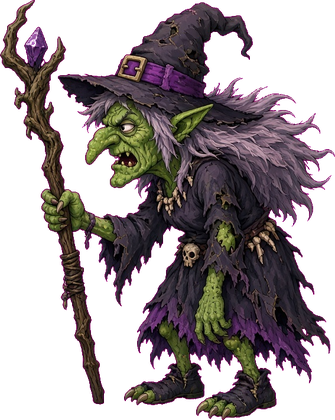
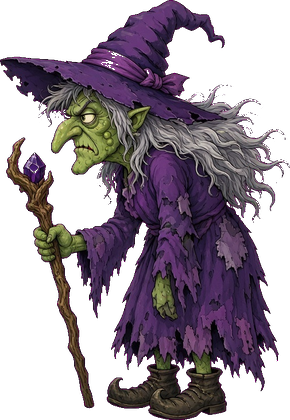
Slow Emma night to five minutes and drop pink sprite boxes

diff --git a/broom.html b/broom.html
@@ -9,9 +9,9 @@
     * { box-sizing: border-box; margin: 0; padding: 0; }
     html, body { height: 100%; background: #140a0c; color: var(--cream); font-family: "Trebuchet MS", "Segoe UI", sans-serif; }
     body { display: flex; flex-direction: column; height: 100dvh; padding-top: env(safe-area-inset-top); padding-bottom: env(safe-area-inset-bottom); }
-    header { display: flex; justify-content: space-between; align-items: center; gap: 8px; padding: 8px 12px; }
+    header { display: flex; justify-content: space-between; align-items: center; gap: 8px; padding: 8px 12px; background: #1a1024; }
     header b { color: var(--gold); letter-spacing: .12em; font-size: 12px; }
-    #hud { font-weight: 800; }
+    #hud { font-weight: 800; color: #ffb4b4; }
     a.back, button.act {
       border: 0; border-radius: 999px; background: #3a241c; color: var(--cream);
       font: 800 13px "Trebuchet MS", sans-serif; padding: 8px 12px; text-decoration: none;
@@ -19,9 +19,16 @@
     #wrap { position: relative; flex: 1; min-height: 0; }
     canvas { width: 100%; height: 100%; display: block; background: #1b1030; touch-action: none; }
     #help {
-      position: absolute; left: 10px; right: 10px; top: 8px;
-      font-size: 13px; text-align: center; pointer-events: none; text-shadow: 0 1px 4px #000;
+      position: absolute; left: 50%; top: 10px; transform: translateX(-50%);
+      max-width: 92%;
+      background: #140a0ccc; border: 1px solid #e8c36a55; border-radius: 999px;
+      padding: 7px 12px; font-size: 13px; text-align: center; pointer-events: none;
     }
+    #barTrack {
+      position: absolute; left: 12px; right: 12px; bottom: 74px; height: 8px;
+      background: #0008; border-radius: 999px; overflow: hidden;
+    }
+    #barFill { height: 100%; width: 0; background: linear-gradient(90deg, #e8c36a, #ff8a2a); }
     #touch {
       position: absolute; left: 10px; right: 10px; bottom: 10px;
       display: grid; grid-template-columns: 1fr 1fr; gap: 8px;
@@ -31,7 +38,7 @@
       font: 800 16px "Trebuchet MS", sans-serif;
     }
     #goSpeed { background: var(--gold); color: #1a1208; }
-    #goBrake { background: #3a241c; color: var(--cream); }
+    #goBrake { background: #3a241c; color: var(--cream); border: 1px solid #e8c36a44; }
     #over {
       position: absolute; inset: 0; background: #140a0ce6;
       display: none; flex-direction: column; justify-content: flex-end; padding: 18px;
@@ -55,6 +62,7 @@
   <div id="wrap">
     <canvas id="c"></canvas>
     <div id="help">Move with mouse or arrows. Left click speeds up. Right click brakes.</div>
+    <div id="barTrack"><div id="barFill"></div></div>
     <div id="touch">
       <button id="goSpeed" type="button">Speed</button>
       <button id="goBrake" type="button">Brake</button>
@@ -74,7 +82,7 @@ const modeEl = document.getElementById("mode");
 const help = document.getElementById("help");
 const speedBtn = document.getElementById("goSpeed");
 const imgs = {};
-["emma","zombie","pumpkin","witch"].forEach((n) => {
+["emma","pumpkin","witch","ghost","skeleton","bat","wolf","zombie"].forEach((n) => {
   const i = new Image();
   i.src = n + ".png";
   imgs[n] = i;
@@ -95,7 +103,14 @@ resize();
 const keys = {};
 let boost = false, brake = false, pointer = false, shootHeld = false;
 let mx = 0.22, my = 0.5;
-let lives = 3, score = 0, level = 1, dist = 0, goal = 1400;
+let lives = 3, score = 0, level = 1, dist = 0, goal = 24000, elapsed = 0;
+const KINDS = [
+  { img: "ghost", speed: 0.1, w: 70, r: 26 },
+  { img: "skeleton", speed: 0.14, w: 64, r: 24 },
+  { img: "bat", speed: 0.2, w: 72, r: 22 },
+  { img: "wolf", speed: 0.16, w: 86, r: 30 },
+  { img: "zombie", speed: 0.12, w: 78, r: 28 }
+];
 let mode = "fly";
 let emma = { x: 0.2, y: 0.5, vx: 0, vy: 0, inv: 0 };
 let speed = 180;
@@ -111,7 +126,8 @@ function reset(nextLevel) {
   lives = nextLevel ? lives : 3;
   if (!nextLevel) score = 0;
   dist = 0;
-  goal = 1100 + level * 350;
+  goal = level === 1 ? 24000 : 18000;
+  elapsed = 0;
   mode = "fly";
   emma = { x: 0.22, y: 0.5, vx: 0, vy: 0, inv: 1 };
   speed = 180;
@@ -179,26 +195,28 @@ function step(dt) {
   emma.x = Math.max(0.08, Math.min(0.55, emma.x));
   emma.y = Math.max(0.12, Math.min(0.82, emma.y));
 
-  const want = brake ? 70 : (boost && mode === "fly" ? 460 : 190);
+  const want = brake ? 40 : (boost && mode === "fly" ? 150 : 80);
   speed += (want - speed) * Math.min(1, dt * 3);
   scroll += speed * dt;
 
   if (mode === "fly") {
     dist += speed * dt;
+    elapsed += dt;
     spawnZ -= dt;
     spawnP -= dt;
     if (spawnZ <= 0) {
-      spawnZ = Math.max(0.45, 1.15 - level * 0.12);
-      foes.push({ x: 1.15, y: 0.15 + Math.random() * 0.7, vy: (Math.random() - 0.5) * 0.15 });
+      spawnZ = level === 1 ? 2.4 : 1.6;
+      const kind = KINDS[Math.floor(Math.random() * (level === 1 ? 4 : KINDS.length))];
+      foes.push({ x: 1.12, y: 0.18 + Math.random() * 0.62, kind, bob: Math.random() * 6 });
     }
     if (spawnP <= 0) {
-      spawnP = 2.6 + Math.random() * 1.4;
-      treats.push({ x: 1.12, y: 0.18 + Math.random() * 0.62 });
+      spawnP = 9 + Math.random() * 4;
+      treats.push({ x: 1.12, y: 0.2 + Math.random() * 0.55 });
     }
     foes.forEach((z) => {
-      z.x -= dt * (0.22 + level * 0.03);
-      z.y += Math.sin(t * 2 + z.x * 8) * dt * 0.05 + (emma.y - z.y) * dt * 0.08;
-      if (hit(emma, z, 34, 28)) { hurt(); z.x = -1; }
+      z.x -= dt * z.kind.speed;
+      z.y += Math.sin(t * 1.4 + z.bob) * dt * 0.04;
+      if (hit(emma, z, 36, z.kind.r)) { hurt(); z.x = -1; }
     });
     treats.forEach((p) => {
       p.x -= dt * 0.12;
@@ -233,29 +251,39 @@ function step(dt) {
       else { level++; reset(level); }
     }
   }
-  hud.textContent = lives + (lives === 1 ? " life" : " lives");
-  if (mode === "fly") modeEl.textContent = "LEVEL " + level;
+  hud.textContent = "♥".repeat(Math.max(0, lives)) + (lives > 5 ? " " + lives : "");
+  const mins = Math.floor(elapsed / 60);
+  const secs = String(Math.floor(elapsed % 60)).padStart(2, "0");
+  if (mode === "fly") modeEl.textContent = "NIGHT " + level + "  " + mins + ":" + secs;
+  const fill = document.getElementById("barFill");
+  if (fill) fill.style.width = Math.min(100, dist / goal * 100) + "%";
 }
 
 function draw() {
   ctx.clearRect(0, 0, W, H);
   const sky = ctx.createLinearGradient(0, 0, 0, H);
-  sky.addColorStop(0, "#241447");
-  sky.addColorStop(1, "#3a1d16");
+  sky.addColorStop(0, "#1a1038");
+  sky.addColorStop(0.55, "#3a2158");
+  sky.addColorStop(1, "#5a2a22");
   ctx.fillStyle = sky;
   ctx.fillRect(0, 0, W, H);
-  ctx.fillStyle = "#f4e2a8";
+  ctx.fillStyle = "#fff8";
+  for (let i = 0; i < 28; i++) {
+    const sx = (i * 97 + 20) % W;
+    const sy = (i * 53) % (H * 0.55);
+    ctx.fillRect(sx, sy, 2, 2);
+  }
+  ctx.fillStyle = "#f6e7b2";
   ctx.beginPath();
-  ctx.arc(W * 0.78, H * 0.16, 28, 0, Math.PI * 2);
+  ctx.arc(W * 0.82, H * 0.16, 26, 0, Math.PI * 2);
   ctx.fill();
-  ctx.fillStyle = "#1a0e14";
-  for (let i = 0; i < 8; i++) {
-    const x = ((i * 180 - scroll * 0.15) % (W + 160)) - 40;
-    ctx.fillRect(x, H * 0.78, 70, H * 0.22);
+  ctx.fillStyle = "#140c12";
+  for (let i = 0; i < 7; i++) {
+    const x = ((i * 210 - scroll * 0.04) % (W + 180)) - 50;
     ctx.beginPath();
-    ctx.moveTo(x - 10, H * 0.78);
-    ctx.lineTo(x + 35, H * 0.62);
-    ctx.lineTo(x + 80, H * 0.78);
+    ctx.moveTo(x, H);
+    ctx.lineTo(x + 28, H * 0.72);
+    ctx.lineTo(x + 56, H);
     ctx.fill();
   }
   function sprite(img, x, y, w) {
@@ -263,8 +291,8 @@ function draw() {
     const h = w * img.naturalHeight / img.naturalWidth;
     ctx.drawImage(img, x - w / 2, y - h / 2, w, h);
   }
-  treats.forEach((p) => sprite(imgs.pumpkin, p.x * W, p.y * H, 54));
-  foes.forEach((z) => sprite(imgs.zombie, z.x * W, z.y * H, 78));
+  treats.forEach((p) => sprite(imgs.pumpkin, p.x * W, p.y * H, 52));
+  foes.forEach((z) => sprite(imgs[z.kind.img], z.x * W, z.y * H, z.kind.w));
   bolts.forEach((b) => {
     ctx.fillStyle = "#b388ff";
     ctx.beginPath();
@@ -290,13 +318,8 @@ function draw() {
   }
   ctx.save();
   if (emma.inv > 0 && Math.floor(t * 12) % 2 === 0) ctx.globalAlpha = 0.45;
-  sprite(imgs.emma, emma.x * W, emma.y * H, 118);
+  sprite(imgs.emma, emma.x * W, emma.y * H, 150);
   ctx.restore();
-  if (mode === "fly") {
-    ctx.fillStyle = "#fff3dc";
-    ctx.font = "800 14px Trebuchet MS, sans-serif";
-    ctx.fillText("Night " + Math.min(100, Math.floor(dist / goal * 100)) + "%", 12, 22);
-  }
 }
 
 function frame(now) {
